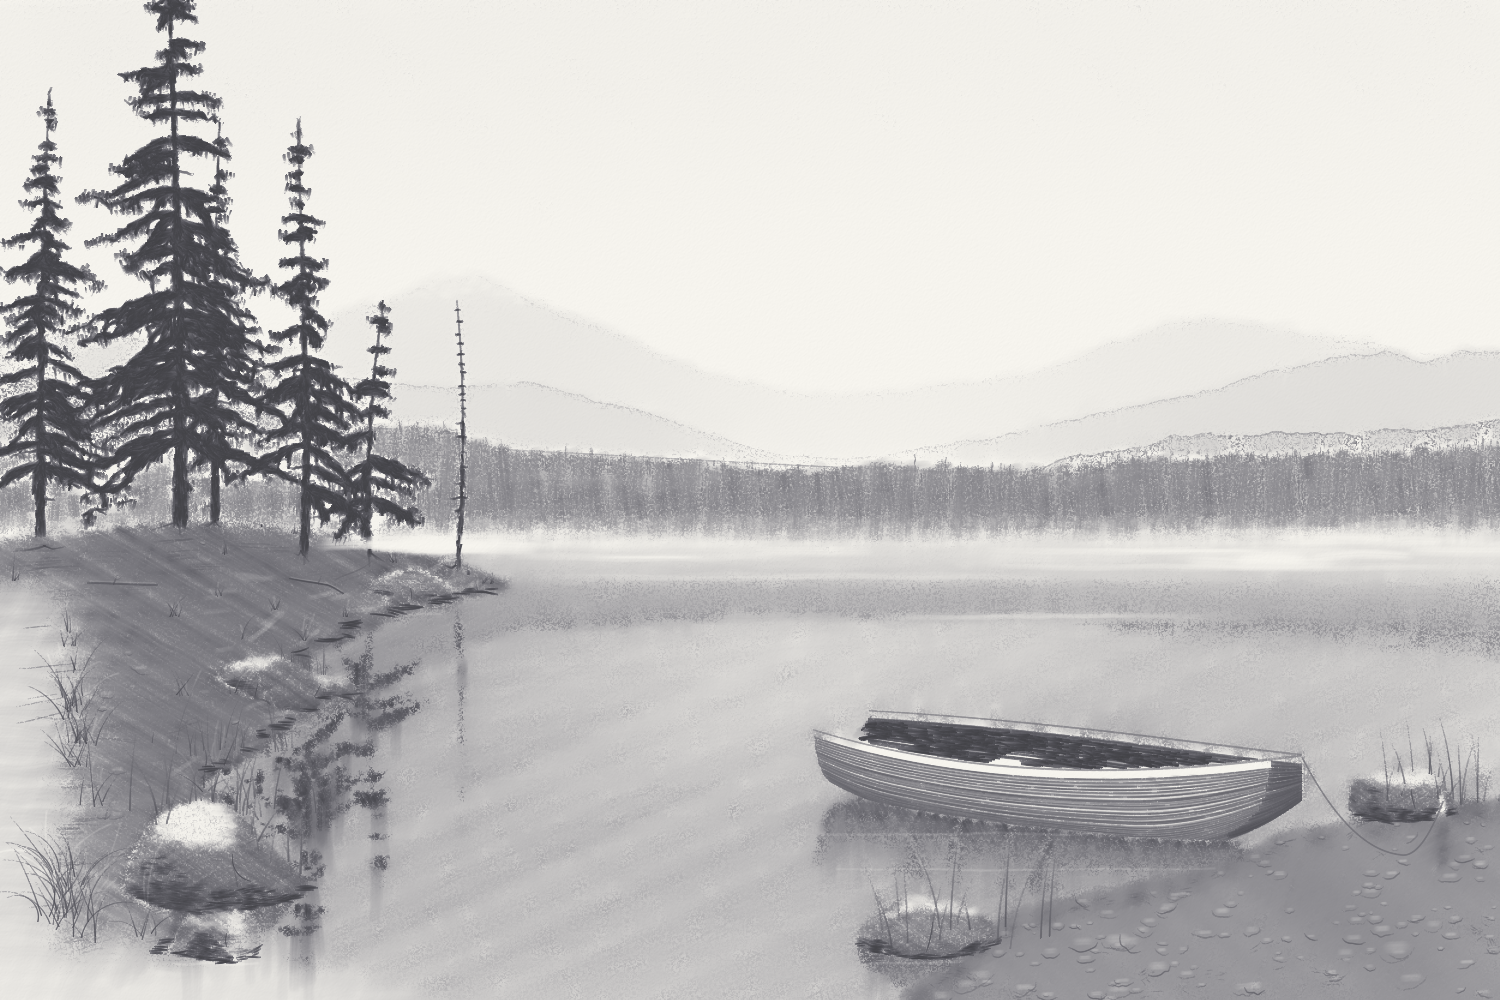
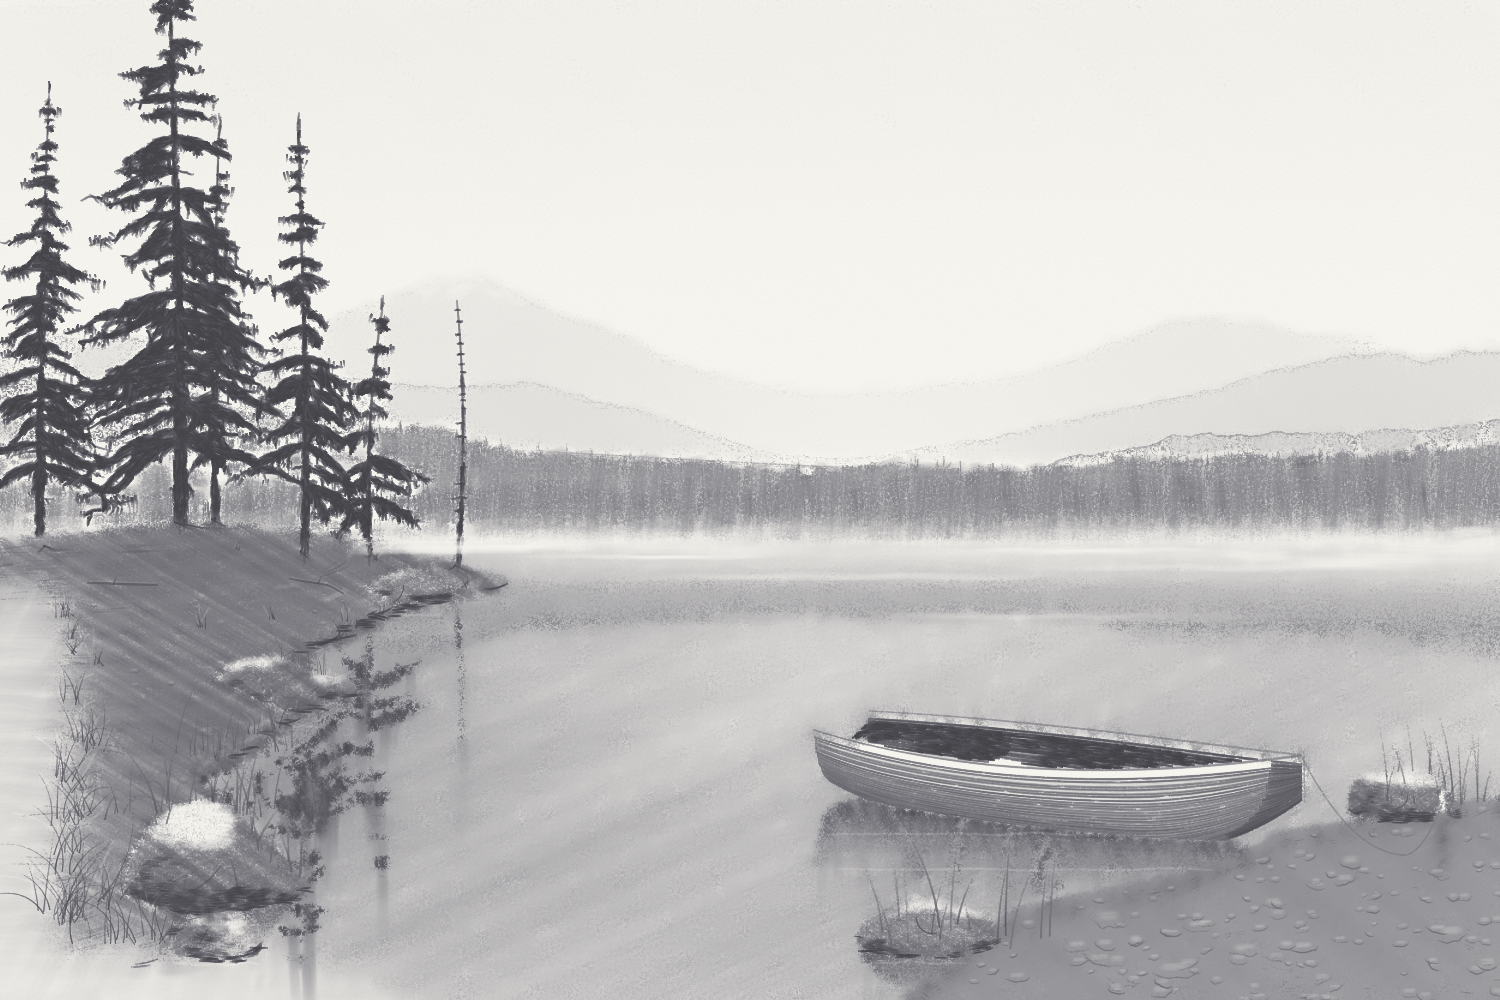
The lake draws the same strokes however a tone came out (#38)
* The lake draws the same strokes however a tone came out

examples/lake.py steps back and looks at the sheet as it draws, and what it
saw decided what it drew next: how many bundles of strokes, eraser passes
and finger drags to lay was rounded from the sum of the need it measured,
and where they went was drawn from the generator in proportion to it, so a
tone a few thousandths off gave other places and a different number of
draws, and every mark after that came out elsewhere. Thresholds on the
need (a ridge's tone, the forest's, the reflections', a plank's piece, the
cores of the pines) laid all or nothing at a level; a reflection's pass
was skipped below one; and a rub that follows a measured field lifts off
where the field is nothing, each stretch it rubs a pass of its own with a
draw of the sheet's generator, so the grain of everything after moved too.
Only the lake reads the sheet back: broadway, deco, farm, macaw,
stilllife, colour, crayons, fixative and ballpoint render it only to save
it.

Now what is seen sets how hard each mark is pressed, never where the marks
may go nor how many are tried. Marks are scattered over a mask the study
fixes, one place per so many pixels, each with a share drawn for it; a mark
is laid where the need passes its share, fading in over a tenth of the
need (on average as many as before). Every place is stroked, however
lightly, so the draws of both generators do not depend on the tone. The
[…]

diff --git a/examples/lake.py b/examples/lake.py
@@ -1847,7 +1847,12 @@ SATURATED = 0.25
 class Hand:
     """The draughtsman at work: the sheet, the study it is drawn from, the
     world's lines, the values and directions he plans to draw them in, and
-    an eye on what the sheet looks like so far."""
+    an eye on what the sheet looks like so far. What he sees sets how hard
+    each mark is pressed, never where the marks may go nor how many he
+    tries: those, and every random draw, come from the study, so that a
+    sheet seen a shade darker or lighter (as any change to how a medium
+    lies gives) is drawn with the same strokes, a shade lighter or
+    darker."""
 
     def __init__(self, st: Study, world: World):
         self.sheet = Sheet(WIDTH, HEIGHT, paper=SHEET_PAPER, seed=SEED)
@@ -1946,9 +1951,19 @@ def lay_tone(
     if width is None:
         width = float(np.clip(across(mask) / (1.0 + 4.0 * tilt), 2.0, 6.0))
     breadth = width * (1.0 + 4.0 * tilt)
-    field = pressure * shrink(mask, int(margin * breadth)) * edge_fade()
-    if field.max() > 0.0:
+    reach = shrink(mask, int(margin * breadth)) * edge_fade()
+    # (laid wherever the mask is, however little the tone wants there, so
+    # that the same strokes are laid whatever was seen)
+    if reach.max() > 0.0:
+        field = pressure * reach
         hand.sheet.shade(box_of(mask), lead, lookup(field), width, angle, tilt=tilt)
+
+
+#: The least a rub presses anywhere in its mask: a tool that rubs a field
+#: lifts off where the field is nothing, and each stretch it rubs is a pass
+#: of its own, with its own grain; kept on the paper all through the mask,
+#: it makes the same passes however the field it follows came out.
+LIGHTEST_RUB = 0.002
 
 
 def rub_area(hand: Hand, mask, tool, pressure, angle, width=None) -> None:
@@ -1957,7 +1972,7 @@ def rub_area(hand: Hand, mask, tool, pressure, angle, width=None) -> None:
     (a number or a field) asks, the tool kept inside the mask's edge so
     that it does not smear what lies next to it."""
     reach = tool.width if width is None else width
-    field = pressure * shrink(mask, int(0.2 * reach))
+    field = np.maximum(pressure, LIGHTEST_RUB) * shrink(mask, int(0.2 * reach))
     if np.max(field) > 0.0:
         hand.sheet.rub(box_of(mask), tool, lookup(field), width, angle)
 
@@ -2023,6 +2038,36 @@ def pick(rng, weight: np.ndarray, count: int) -> np.ndarray:
     idx = rng.choice(w.size, count, p=w / total)
     y, x = np.divmod(idx, WIDTH)
     return np.stack([x, y], axis=1) + rng.uniform(-0.5, 0.5, (count, 2))
+
+
+#: How far, in the share of a need, a mark fades in as the need passes the
+#: share drawn for it (see ``scatter``).
+FADE = 0.1
+
+
+def scatter(rng, where: np.ndarray, want: np.ndarray, every: float):
+    """Where marks go over ``where`` (a mask the study fixes) and how much
+    of each to lay there, 0..1, for marks wanted as ``want`` asks (0..1, as
+    seen on the sheet): one place for each ``every`` pixels of ``where``,
+    and for each a share drawn at random; a mark is laid where ``want``
+    passes its share, fading in over ``FADE``. The places, and every draw,
+    are what the study gives, whatever was seen: a tone seen a little
+    darker or lighter lays the same marks a little harder or lighter, never
+    others elsewhere. As many are laid, on average, as if one were placed
+    for each ``every`` of ``want``."""
+    spots = pick(rng, where.astype(np.float64), int(where.sum() / every))
+    shares = rng.random(len(spots))
+    here = want[spots[:, 1].astype(int), spots[:, 0].astype(int)]
+    laid = np.clip((here - shares) / FADE + 0.5, 0.0, 1.0)
+    return spots, laid * np.clip(2.0 * here / FADE, 0.0, 1.0)
+
+
+def wanting(need, least: float):
+    """How far ``need`` is worth working, 0..1: not at all where nothing is
+    needed, fully from twice ``least`` on, smoothly between, so that a need
+    seen a little greater or smaller asks a little more or less, never all
+    or nothing."""
+    return filters.smoothstep(0.0, 2.0 * least, need)
 
 
 def trace(field, x, y, heading, length, bend, rng, step=2.5) -> np.ndarray:
@@ -2091,31 +2136,36 @@ def lay_bundle(hand: Hand, marks: Marks, centre, heading, firm, field, keep) -> 
         draw_line(hand, pts, marks.lead, np.clip(p, 0.0, 1.0), marks.width, marks.tilt)
 
 
-def lay_marks(hand: Hand, marks: Marks, need, cover=1.0, angle=None, keep=None) -> None:
-    """Bundles of strokes where ``need`` asks, as many as cover that need
-    ``cover`` times over: along the study's directions, or at ``angle``
-    (radians on the sheet)."""
-    count = int(cover * float(need.sum()) / marks.area())
+def lay_marks(
+    hand: Hand, marks: Marks, where, need, cover=1.0, angle=None, keep=None
+) -> None:
+    """Bundles of strokes over ``where`` as ``need`` asks there (0..1), as
+    many as cover that need ``cover`` times over: along the study's
+    directions, or at ``angle`` (radians on the sheet)."""
+    spots, laid = scatter(hand.rng, where, need, marks.area() / cover)
     field = hand.angle if angle is None and marks.follow else None
     lo, hi = marks.pressure
-    for cx, cy in pick(hand.rng, need, count):
+    for (cx, cy), share in zip(spots, laid, strict=True):
         here = need[int(cy), int(cx)]
         heading = hand.angle[int(cy), int(cx)] if angle is None else angle
         heading += hand.rng.normal(0.0, marks.turn)
-        lay_bundle(hand, marks, (cx, cy), heading, lo + (hi - lo) * here, field, keep)
+        firm = share * (lo + (hi - lo) * here)
+        lay_bundle(hand, marks, (cx, cy), heading, firm, field, keep)
 
 
 def drag(hand: Hand, starts, lengths, tool, pressure, heading=np.pi / 2, width=None):
-    """Pull a stump or a finger from each start, ``lengths`` pixels: one
-    tool, not cleaned between two pulls, so that once it is loaded it
-    leaves the tone as dark as it found it."""
+    """Pull a stump or a finger from each start, ``lengths`` pixels, as
+    hard as ``pressure`` (a number, or one for each): one tool, not cleaned
+    between two pulls, so that once it is loaded it leaves the tone as dark
+    as it found it."""
     rng = hand.rng
     held = Smudger(tool, width)
-    for (x, y), length in zip(starts, lengths, strict=True):
+    pressures = np.broadcast_to(pressure, len(lengths))
+    for (x, y), length, firm in zip(starts, lengths, pressures, strict=True):
         a = heading + rng.normal(0.0, 0.05)
         end = (x + length * math.cos(a), y + length * math.sin(a))
         mid = (0.5 * (x + end[0]) + rng.normal(0, 1.0), 0.5 * (y + end[1]))
-        hand.sheet.smudge([(x, y), mid, end], held, pressure)
+        hand.sheet.smudge([(x, y), mid, end], held, float(firm))
 
 
 # ----------------------------------------------------------------------
@@ -2191,7 +2241,7 @@ def draw_ridges(hand: Hand) -> None:
             for k, angle in enumerate(angles):
                 # (each layer half of what the tone still wants)
                 press = pressed_for(lead, 0.5 * need, dark + 0.5 * k * need)
-                lay_tone(hand, mask, lead, press * (need > 0.006), angle)
+                lay_tone(hand, mask, lead, press * wanting(need, 0.006), angle)
                 rub_area(hand, mask, held, 0.9, angle + 90.0)
                 rub_area(hand, mask, held, 0.9, 0.0)
     for ident, _, _, _ in RIDGE_HANDS:
@@ -2205,7 +2255,7 @@ def draw_ridges(hand: Hand) -> None:
         mask = ridge_mask(hand, ident)
         if ident != RIDGE3:
             marks = Marks(point, 2.0, (10.0, 30.0), (0.12, 0.5), (2, 5), 1.3)
-            lay_marks(hand, marks, hand.need(mask), 0.8, keep=mask)
+            lay_marks(hand, marks, mask, hand.need(mask), 0.8, keep=mask)
         crest(hand, ident)
     snow = hand.mask(SNOW)
     rng = hand.rng
@@ -2225,7 +2275,7 @@ def draw_middle(hand: Hand) -> None:
     hand.look()
     for angle in (85.0, 96.0):
         need = hand.need(mask)
-        press = np.clip(0.1 + 3.5 * need, 0.0, 0.85) * (need > 0.01)
+        press = np.clip(0.1 + 3.5 * need, 0.0, 0.85) * wanting(need, 0.01)
         lay_tone(hand, mask, pencils.B2, press, angle)
         rub_area(hand, mask, tools.STUMP, 0.85, angle - 85.0, 16.0)
         hand.look()
@@ -2280,14 +2330,7 @@ def draw_mist(hand: Hand) -> None:
     band = (hand.st.veil > 0.2) & (rows > CY - 260) & (rows < CY + 120)
     band &= ~hand.mask(TRUNK, BOUGH, ROCK, GROUND, SHINGLE, REED)
     band &= ~grow(hand.mask(RIDGE1, RIDGE2, RIDGE3, SNOW), 2)
-    lift = hand.excess(band, blur=5)
-    rng = hand.rng
-    for cx, cy in pick(rng, lift, int(lift.sum() / 120.0)):
-        length = rng.uniform(60.0, 200.0)
-        firm = np.clip(0.2 + 1.8 * lift[int(cy), int(cx)], 0.0, 0.9)
-        bow = rng.normal(0.0, 1.5)
-        path = [(cx - length / 2, cy), (cx, cy + bow), (cx + length / 2, cy - bow)]
-        hand.sheet.erase(path, tools.KNEADED, firm, rng.uniform(10.0, 22.0))
+    lift_mist(hand, band, 1.0)
 
 
 #: What the water mirrors near the eye (as against the far shore and sky).
@@ -2328,7 +2371,7 @@ def block_in(hand: Hand) -> None:
     mass = Marks(
         pencils.B4, 3.0, (8.0, 24.0), (0.5, 0.95), (3, 6), 0.8, "taper", 0.15, 0.05
     )
-    lay_marks(hand, mass, hand.need(pine), 2.5, keep=pine)
+    lay_marks(hand, mass, pine, hand.need(pine), 2.5, keep=pine)
     planks(hand, pencils.HB, pencils.B4)
 
 
@@ -2366,13 +2409,13 @@ def build_up(hand: Hand) -> None:
     stones = Marks(
         pencils.B4, 2.0, (4.0, 12.0), (0.3, 0.9), (1, 3), 1.6, "taper", 0.4, 0.1, False
     )
-    lay_marks(hand, stones, hand.need(shingle), 2.0, 0.0, shingle)
+    lay_marks(hand, stones, shingle, hand.need(shingle), 2.0, 0.0, shingle)
     rock_form(hand)
     pine = hand.mask(TRUNK, BOUGH)
     marks = Marks(
         pencils.B6, 2.6, (6.0, 20.0), (0.6, 1.0), (3, 6), 0.8, "taper", 0.15, 0.05
     )
-    lay_marks(hand, marks, np.sqrt(hand.need(pine)), 2.5, keep=pine)
+    lay_marks(hand, marks, pine, np.sqrt(hand.need(pine)), 2.5, keep=pine)
     boughs(hand)
     planks(hand, pencils.B2, pencils.B6)
     along = -math.degrees(float(np.median(hand.st.angle[hand.mask(HULL)])))
@@ -2425,21 +2468,22 @@ def reflections(hand: Hand, water: np.ndarray, final: bool = False) -> None:
         mask = water & np.isin(hand.st.mirrored, ids)
         near = ids == NEAR_THINGS
         need = hand.need(mask, 4 if lead is pencils.B2 else 8)
-        if need.max() < 0.03:
+        if not mask.any():
             continue
-        soft = filters.box_blur((need > 0.03).astype(np.float64), 10)
+        enough = wanting(need, 0.03)
+        soft = filters.box_blur(enough, 10)
         dark = hand.tone()
         if final:
-            press = np.minimum(pressed_for(lead, need, dark), 0.8) * (need > 0.03)
+            press = np.minimum(pressed_for(lead, need, dark), 0.8) * enough
             lay_tone(hand, mask, lead, press, 0.0 if near else 90.0)
             if near:
                 rub_area(hand, mask, tools.FINGER, 0.5 * soft, 0.0, 18.0)
             continue
         for k, angle in enumerate((60.0, 120.0)):
             press = pressed_for(lead, 0.5 * need, dark + 0.5 * k * need)
-            lay_tone(hand, mask, lead, np.minimum(press, 0.9) * (need > 0.03), angle)
+            lay_tone(hand, mask, lead, np.minimum(press, 0.9) * enough, angle)
         rub_area(hand, mask, tools.FINGER, 0.6 * soft, 0.0, 18.0)
-        pull_down(hand, need, 0.3 if near else 0.45)
+        pull_down(hand, mask, need, 0.3 if near else 0.45)
     if final:
         gaps(hand, water)
 
@@ -2457,11 +2501,11 @@ def rock_form(hand: Hand) -> None:
     form = Marks(
         pencils.B4, 2.2, (6.0, 16.0), (0.35, 0.95), (3, 5), 0.85, "taper", 0.12, 0.03
     )
-    lay_marks(hand, form, hand.need(side), 3.0, keep=side)
+    lay_marks(hand, form, side, hand.need(side), 3.0, keep=side)
     dark = Marks(
         pencils.B8, 2.2, (5.0, 14.0), (0.65, 1.0), (3, 5), 0.8, "taper", 0.12, 0.03
     )
-    lay_marks(hand, dark, np.sqrt(hand.need(under)), 3.5, keep=under)
+    lay_marks(hand, dark, under, np.sqrt(hand.need(under)), 3.5, keep=under)
     rub_area(hand, side, tools.TORTILLON, 0.5, 30.0)
     top = rock & (up >= 0.86)
     rng = hand.rng
@@ -2481,7 +2525,7 @@ def rock_details(hand: Hand) -> None:
     line = Marks(
         pencils.B8, 2.2, (6.0, 18.0), (0.7, 0.95), (1, 2), 1.0, "taper", 0.05, 0.03
     )
-    lay_marks(hand, line, below * 1.0, 3.0, angle=0.0)
+    lay_marks(hand, line, below, below * 1.0, 3.0, angle=0.0)
     rng = hand.rng
     for x, z, size, flat, _ in ROCKS:
         P = project(np.array([[x, size * flat * 0.9, z]]), EYE)[0]
@@ -2517,10 +2561,11 @@ def plank_strokes(hand: Hand, run: np.ndarray, lead, width: float, want) -> None
         piece = run[k : k + n + 1]
         k += n + int(rng.integers(0, 3))
         need = at(want, piece[:, 0], piece[:, 1])
-        if need.max() < 0.02:
-            continue
+        # (every piece is drawn, as lightly as the plank wants it)
         firm = (
-            np.clip(0.35 + 1.2 * need, 0.0, 1.0) * profile("taper", len(piece)) ** 0.5
+            np.clip(0.35 + 1.2 * need, 0.0, 1.0)
+            * profile("taper", len(piece)) ** 0.5
+            * wanting(need.max(), 0.02)
         )
         draw_line(hand, piece, lead, firm, width)
 
@@ -2550,12 +2595,12 @@ def lift_mist(hand: Hand, where: np.ndarray, firm: float) -> None:
     it came out too dark when last seen."""
     lift = hand.excess(where, blur=5)
     rng = hand.rng
-    for cx, cy in pick(rng, lift, int(lift.sum() / 120.0)):
+    for (cx, cy), share in zip(*scatter(rng, where, lift, 120.0), strict=True):
         length = rng.uniform(60.0, 200.0)
-        p = float(np.clip(0.2 + 1.8 * firm * lift[int(cy), int(cx)], 0.0, 0.9))
+        p = share * np.clip(0.2 + 1.8 * firm * lift[int(cy), int(cx)], 0.0, 0.9)
         bow = rng.normal(0.0, 1.5)
         path = [(cx - length / 2, cy), (cx, cy + bow), (cx + length / 2, cy - bow)]
-        hand.sheet.erase(path, tools.KNEADED, p, rng.uniform(10.0, 22.0))
+        hand.sheet.erase(path, tools.KNEADED, float(p), rng.uniform(10.0, 22.0))
 
 
 def lift_ruffles(hand: Hand) -> None:
@@ -2656,7 +2701,7 @@ def needles(hand: Hand, pine: np.ndarray) -> None:
     )
     for _ in range(4):
         part = fringe * (hand.rng.random(fringe.shape) < 0.25)
-        lay_marks(hand, marks, part * 1.0, marks.area() / 12.0, angle=np.pi / 2)
+        lay_marks(hand, marks, part, part * 1.0, marks.area() / 12.0, angle=np.pi / 2)
         pencil.sharpen()
 
 
@@ -2776,7 +2821,7 @@ def deepen(hand: Hand, mask: np.ndarray, rounds: int) -> None:
     )
     for _ in range(rounds):
         hand.look()
-        lay_marks(hand, marks, (hand.need(core, 1) > 0.02) * 1.0, 2.0, keep=core)
+        lay_marks(hand, marks, core, wanting(hand.need(core, 1), 0.02), 2.0, keep=core)
 
 
 def clear_lights(hand: Hand) -> None:
@@ -2810,11 +2855,11 @@ def clear_lights(hand: Hand) -> None:
     lift_mist(hand, where, 0.9)
     rng = hand.rng
     grey = np.clip(lift - 0.05, 0.0, 1.0)
-    for cx, cy in pick(rng, grey, int(grey.sum() / 40.0)):
+    for (cx, cy), share in zip(*scatter(rng, where, grey, 40.0), strict=True):
         length = rng.uniform(40.0, 150.0)
         bow = rng.normal(0.0, 1.2)
         path = [(cx - length / 2, cy - bow), (cx, cy + bow), (cx + length / 2, cy)]
-        firm = float(np.clip(0.15 + 2.5 * grey[int(cy), int(cx)], 0.0, 0.5))
+        firm = share * float(np.clip(0.15 + 2.5 * grey[int(cy), int(cx)], 0.0, 0.5))
         hand.sheet.erase(
             path,
             tools.ERASER,
@@ -2823,16 +2868,16 @@ def clear_lights(hand: Hand) -> None:
         )
 
 
-def pull_down(hand: Hand, need: np.ndarray, pressure: float) -> None:
-    """Drag the finger down through a reflection from where it is darkest,
-    further the nearer the water is to the eye."""
+def pull_down(hand: Hand, mask: np.ndarray, need: np.ndarray, pressure: float):
+    """Drag the finger down through a reflection over ``mask`` from where it
+    is darkest, further the nearer the water is to the eye."""
     rng = hand.rng
-    starts = pick(rng, need, int(need.sum() / 60.0))
+    starts, laid = scatter(rng, mask, need, 60.0)
     if not len(starts):
         return
     below = np.maximum(starts[:, 1] - CY, 5.0)
     lengths = np.clip(below * rng.uniform(0.1, 0.25, len(starts)), 8.0, 70.0)
-    drag(hand, starts, lengths, tools.FINGER, pressure, width=12.0)
+    drag(hand, starts, lengths, tools.FINGER, pressure * laid, width=12.0)
 
 
 def gaps(hand: Hand, water: np.ndarray) -> None:
@@ -2899,7 +2944,9 @@ def bank_edge(hand: Hand) -> None:
         0.03,
         False,
     )
-    lay_marks(hand, marks, edge * 0.8 * edge_fade(), 2.0, angle=0.0, keep=grow(edge, 3))
+    lay_marks(
+        hand, marks, edge, edge * 0.8 * edge_fade(), 2.0, angle=0.0, keep=grow(edge, 3)
+    )
 
 
 def plan_angles(st: Study) -> np.ndarray:
@@ -2950,7 +2997,7 @@ def bank_tone(hand: Hand) -> None:
         lie = Marks(
             lead, 2.4, (18.0, 46.0), (0.25, 0.9), (2, 4), 1.1, "taper", 0.06, 0.02
         )
-        lay_marks(hand, lie, hand.need(bank, 3), cover, keep=keep)
+        lay_marks(hand, lie, bank, hand.need(bank, 3), cover, keep=keep)
         rub_area(hand, bank, finger, 0.3, 0.0)
     loose_edge(hand)
 
@@ -2962,13 +3009,16 @@ def top_light(hand: Hand) -> None:
     as much as each came out too dark."""
     ground = hand.mask(GROUND)
     hand.look()
-    lift = hand.excess(ground, 3) * (edge_fade() > 0.5)
+    where = ground & (edge_fade() > 0.5)
+    lift = hand.excess(where, 3)
     rng = hand.rng
-    for cx, cy in pick(rng, lift * (lift > 0.03), int(lift.sum() / 20.0)):
+    for (cx, cy), share in zip(
+        *scatter(rng, where, lift * wanting(lift, 0.03), 20.0), strict=True
+    ):
         a = hand.angle[int(cy), int(cx)] + rng.normal(0.0, 0.1)
         half = rng.uniform(8.0, 18.0)
         dx, dy = half * math.cos(a), half * math.sin(a)
-        firm = float(np.clip(0.3 + 2.0 * lift[int(cy), int(cx)], 0.0, 0.8))
+        firm = share * float(np.clip(0.3 + 2.0 * lift[int(cy), int(cx)], 0.0, 0.8))
         path = [(cx - dx, cy - dy), (cx, cy + rng.normal(0, 0.5)), (cx + dx, cy + dy)]
         hand.sheet.erase(
             path, tools.KNEADED, (firm * profile("taper", 7)).tolist(), 6.0
@@ -3103,7 +3153,7 @@ def loose_edge(hand: Hand) -> None:
     loose = Marks(
         pencils.B4, 2.0, (25.0, 60.0), (0.25, 0.5), (1, 2), 3.0, "taper", 0.1, 0.04
     )
-    lay_marks(hand, loose, band * 0.15, 1.0, keep=hand.mask(GROUND))
+    lay_marks(hand, loose, band, band * 0.15, 1.0, keep=hand.mask(GROUND))
 
 
 def ground_stones(hand: Hand, where: np.ndarray) -> None:
